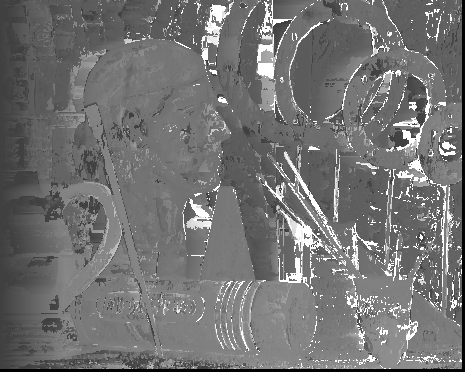
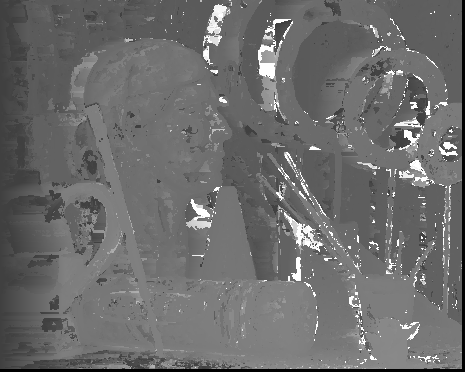
window width = 7, if in threshold, same value

diff --git a/stereo_image.py b/stereo_image.py
@@ -2,45 +2,46 @@ import os
 from PIL import Image
 from PIL import ImageFilter
 from utilities import *
+import numpy as np
+
 # It needs '.'
 org_dir = "./All-2views"
 res_dir = "./my_result"
-window_width = 3
+window_width = 7
 
 
 def myfunc(img1, img2):
+    # img1 - left view, img2 - right view
     w, h = img1.size
     pw = window_width // 2
     res_img = Image.new(mode='L', size=img1.size)
+    arr = np.full(shape=(h, w, w), fill_value=np.inf)
     for j in range(h-window_width):  # height
         if j % 10 == 0:
             print("j=", j)
         for i in range(w-window_width):  # width
             max_d = None
             val = 0
-            arr = [[None]*3]*3
-            for t in range(i+1):  # along X-axis
+            for t in range(w-window_width):  # along X-axis
                 # calculate sum of difference in window
                 d = 0
                 for a in range(window_width):
                     for b in range(window_width):
-                        if arr[b][a] is None:
+                        if arr[j+b][i+a][t+a] == np.inf:
                             px1 = img1.getpixel((i+a, j+b))
                             px2 = img2.getpixel((t+a, j+b))
                             tmp = 0
                             for index in range(len(px1)):
                                 tmp += (px1[index] - px2[index]) ** 2
-                            arr[b][a] = tmp
-                        d += arr[b][a]
-                for b in range(window_width):
-                    arr[b] = arr[b][1:window_width]
-                    arr[b].append(None)
+                            arr[j+b][i+a][t+a] = tmp
+                        d += arr[j+b][i+a][t+a]
 
                 if max_d is None or max_d > d:
                     max_d = d
-                    val = t-i
-
-                res_img.putpixel((i, j), 64-int(val/w*255))
+                    val = i-t
+            if i-1 >= 0 and res_img.getpixel((i-1, j)) - (64+2*val) < 10:
+                res_img.putpixel((i-1, j), 64 + 2 * val)
+            res_img.putpixel((i, j), 64+2*val)
     return res_img
 
 
@@ -53,19 +54,20 @@ if __name__ == "__main__":
 
         img1 = pad_image(image1, window_width // 2)  # reflective padding
         img2 = pad_image(image2, window_width // 2)
-        # img1_blur = img1.filter(ImageFilter.BLUR)
-        # img2_blur = img2.filter(ImageFilter.BLUR)
+        img1_blur = img1.filter(ImageFilter.BLUR)
+        img2_blur = img2.filter(ImageFilter.BLUR)
 
         res_image = myfunc(img1, img2)
         # res_image.show()
-        # res_image_blur = myfunc(img1_blur, img2_blur)
-        one_color_image = Image.new('L', image1.size, 64)
-        one_color_image.save('64.png')
+        res_image.save(res_dir + "/" + cur + "/res5.png")
+
+        res_image_blur = myfunc(img1_blur, img2_blur)
+        res_image_blur.save(res_dir + "/" + cur + "/res_blur.png")
+
+        # one_color_image = Image.new('L', image1.size, 64)
+        # one_color_image.save('64.png')
 
         # image1.save(res_dir + "/" + cur + "/view1.png")
         # image2.save(res_dir + "/" + cur + "/view5.png")
-        res_image.save(res_dir + "/" + cur + "/res.png")
-
-        # res_image_blur.save(res_dir + "/" + cur + "/res_blur.png")
-        break
+        # break
 
